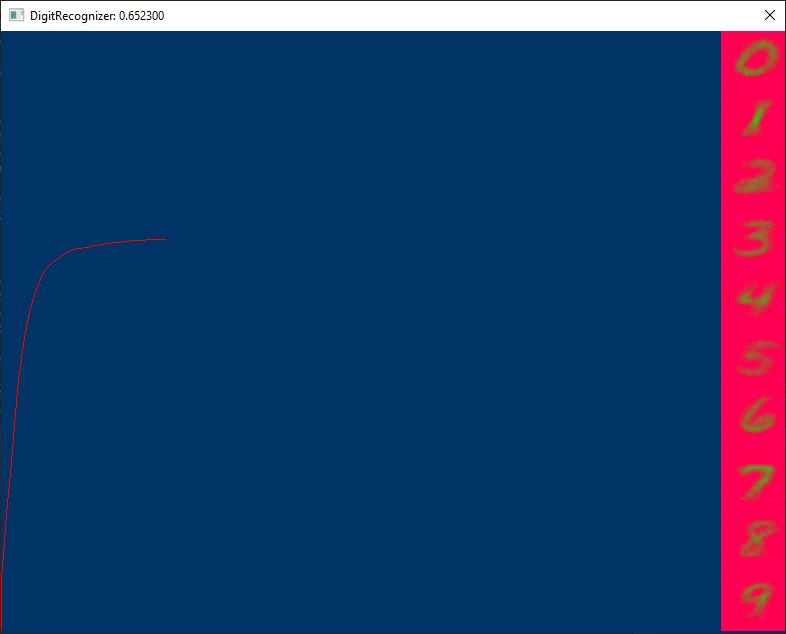
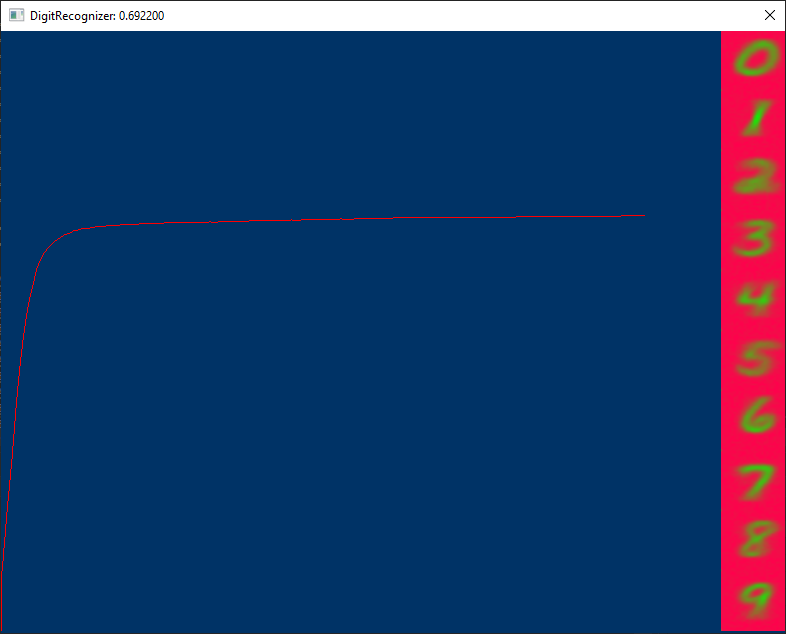
Немного изменена отрисовка графика. Изменены параметры обучения

Changed region(s): [[0.916, 0.1498, 1.0, 0.6893], [0.916, 0.7192, 1.0, 0.989], [0.916, 0.0599, 1.0, 0.1199]]

diff --git a/DigitRecognizer/RendererDX11.cpp b/DigitRecognizer/RendererDX11.cpp
@@ -229,7 +229,6 @@ void RendererDX11::OnUpdate()
 {
 	static int32_t current_x = 0;
 	static float_t max_y = 1.f;
-	++current_x;
 	// clear the back buffer to a deep blue
 	float color[] = { 0.0f, 0.2f, 0.4f, 1.0f };
 	s_pContext->ClearRenderTargetView(s_pRenderTargetView, color);
@@ -284,12 +283,13 @@ void RendererDX11::OnUpdate()
 		DR->TrainNN();
 		OurVertices[current_x].Pos.y = (value * 2.f - 1.f); //sin(static_cast<float_t>(current_x) / static_cast<float_t>(SCREEN_WIDTH) * 6.28f) / 2.f + .5f;
 
-		if (current_x >= SCREEN_WIDTH - 100)
-			current_x = 0;
 		memcpy(ms.pData, OurVertices, sizeof(OurVertices));                // copy the data
 		s_pContext->Unmap(s_pVBuffer, NULL);                                     // unmap the buffer
 		s_pContext->Draw(current_x, 0);
 	}
+	++current_x;
+	if (current_x >= SCREEN_WIDTH - 100)
+		current_x = 0;
 	// switch the back buffer and the front buffer
 	s_pSwapchain->Present(0, 0);
 }

diff --git a/DigitRecognizer/stdafx.h b/DigitRecognizer/stdafx.h
@@ -23,9 +23,9 @@
 #define LAYER_1_NEURONS 16
 #define LAYER_2_NEURONS 16
 #define RESULT_NEURONS 10 // [0-9]
-#define BATCH_SIZE 1000
+#define BATCH_SIZE 2000
 #define DELTA 0.005f
-#define REG_SCALE -1.f
+#define REG_SCALE -100000000.00f
 #define GRAD_STEP .0001f
 #define GRAD_SCALE 64
 #define SAMPLE_TIME 1
